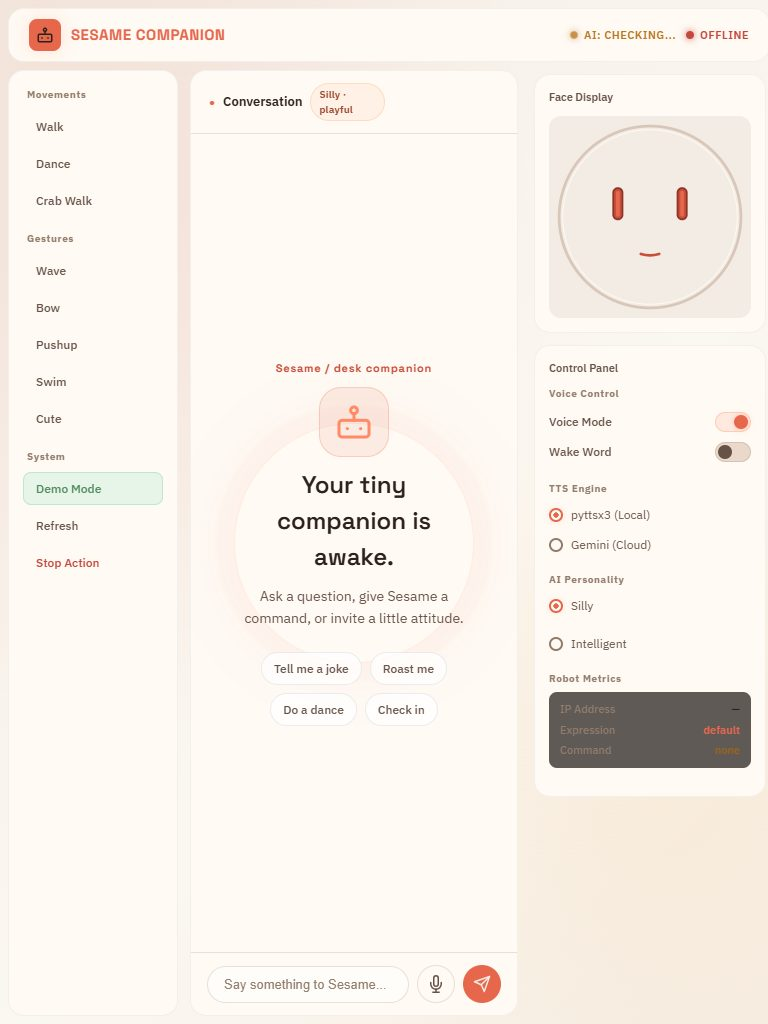
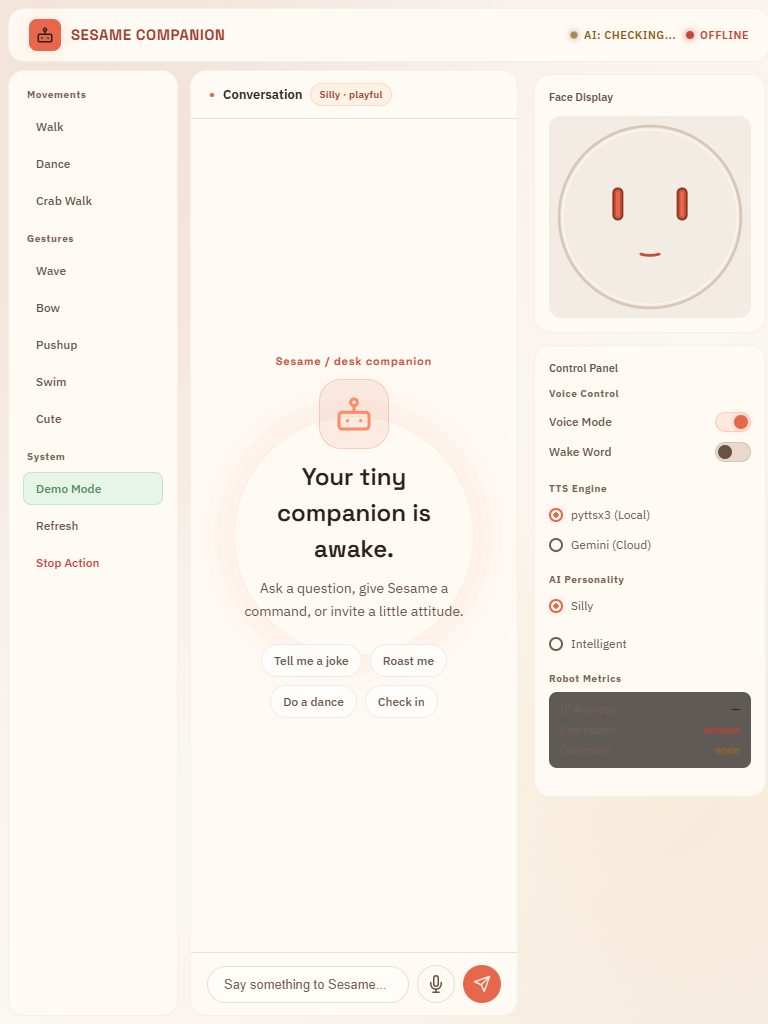
feat: Update UI components and improve typing indicator functionality

diff --git a/static/style.css b/static/style.css
@@ -261,7 +261,7 @@ body::before {
 .action-btn.system-demo {
   background: rgba(16, 185, 129, 0.1);
   border-color: rgba(16, 185, 129, 0.2);
-  color: var(--success);
+  color: #3d7049;
 }
 .action-btn.system-demo:hover {
   background: rgba(16, 185, 129, 0.18);
@@ -326,9 +326,16 @@ body::before {
 }
 
 .typing-indicator {
+  align-self: flex-start;
+  width: fit-content;
+  margin: 4px 0 0 0;
+  padding: 8px 12px;
+  border: 1px solid var(--border);
+  border-radius: var(--radius-md);
+  background: var(--bg-surface-2);
   font-size: 11px;
   font-weight: 500;
-  color: var(--orange);
+  color: #7b4e10;
   display: flex;
   align-items: center;
   gap: 6px;
@@ -409,7 +416,7 @@ body::before {
 
 .message.user .message-bubble {
   background: var(--cyan-mid);
-  border: 1px solid rgba(59, 130, 246, 0.3);
+  border: 1px solid rgba(143, 53, 40, 0.22);
   border-bottom-right-radius: 4px;
 }
 
@@ -439,7 +446,7 @@ body::before {
 }
 
 .message.sesame .message-text {
-  color: #e2e8f0;
+  color: var(--text-primary);
 }
 
 /* System messages */
@@ -782,14 +789,14 @@ body::before {
   grid-template-columns: auto 1fr;
   gap: 4px 10px;
   padding: 8px 10px;
-  background: rgba(33, 28, 25, 0.72);
+  background: var(--bg-surface-2);
   border-radius: var(--radius-sm);
-  border: 1px solid var(--border);
+  border: 1px solid rgba(111, 78, 59, 0.2);
 }
 
 .metric-label {
   font-size: 11px;
-  color: var(--text-muted);
+  color: #765f52;
   font-weight: 500;
 }
 
@@ -830,7 +837,7 @@ body::before {
 }
 
 .welcome-kicker {
-  color: var(--cyan-mid);
+  color: #b24332;
   font-family: 'Space Grotesk', sans-serif;
   font-size: 11px;
   font-weight: 700;

diff --git a/static/index.html b/static/index.html
@@ -91,12 +91,6 @@
           <span>Conversation</span>
           <span class="personality-chip" id="personality-chip">Silly · playful</span>
         </div>
-        <div class="typing-indicator" id="typing-indicator">
-          <span>Sesame is thinking</span>
-          <div class="typing-dots">
-            <span></span><span></span><span></span>
-          </div>
-        </div>
       </div>
 
       <div class="messages-container" id="messages-container">
@@ -120,6 +114,12 @@
             <button class="prompt-chip" data-prompt="Roast me.">Roast me</button>
             <button class="prompt-chip" data-prompt="Do a little dance for us!">Do a dance</button>
             <button class="prompt-chip" data-prompt="How are you feeling today?">Check in</button>
+          </div>
+        </div>
+        <div class="typing-indicator" id="typing-indicator">
+          <span>Sesame is thinking</span>
+          <div class="typing-dots">
+            <span></span><span></span><span></span>
           </div>
         </div>
       </div>

diff --git a/static/app.js b/static/app.js
@@ -372,8 +372,15 @@ function escapeHtml(text) {
 
 function setTyping(active) {
   const el = document.getElementById('typing-indicator');
+  const container = document.getElementById('messages-container');
   if (active) {
+    if (container) {
+      container.appendChild(el);
+    }
     el.classList.add('active');
+    requestAnimationFrame(() => {
+      container.scrollTop = container.scrollHeight;
+    });
   } else {
     el.classList.remove('active');
   }
